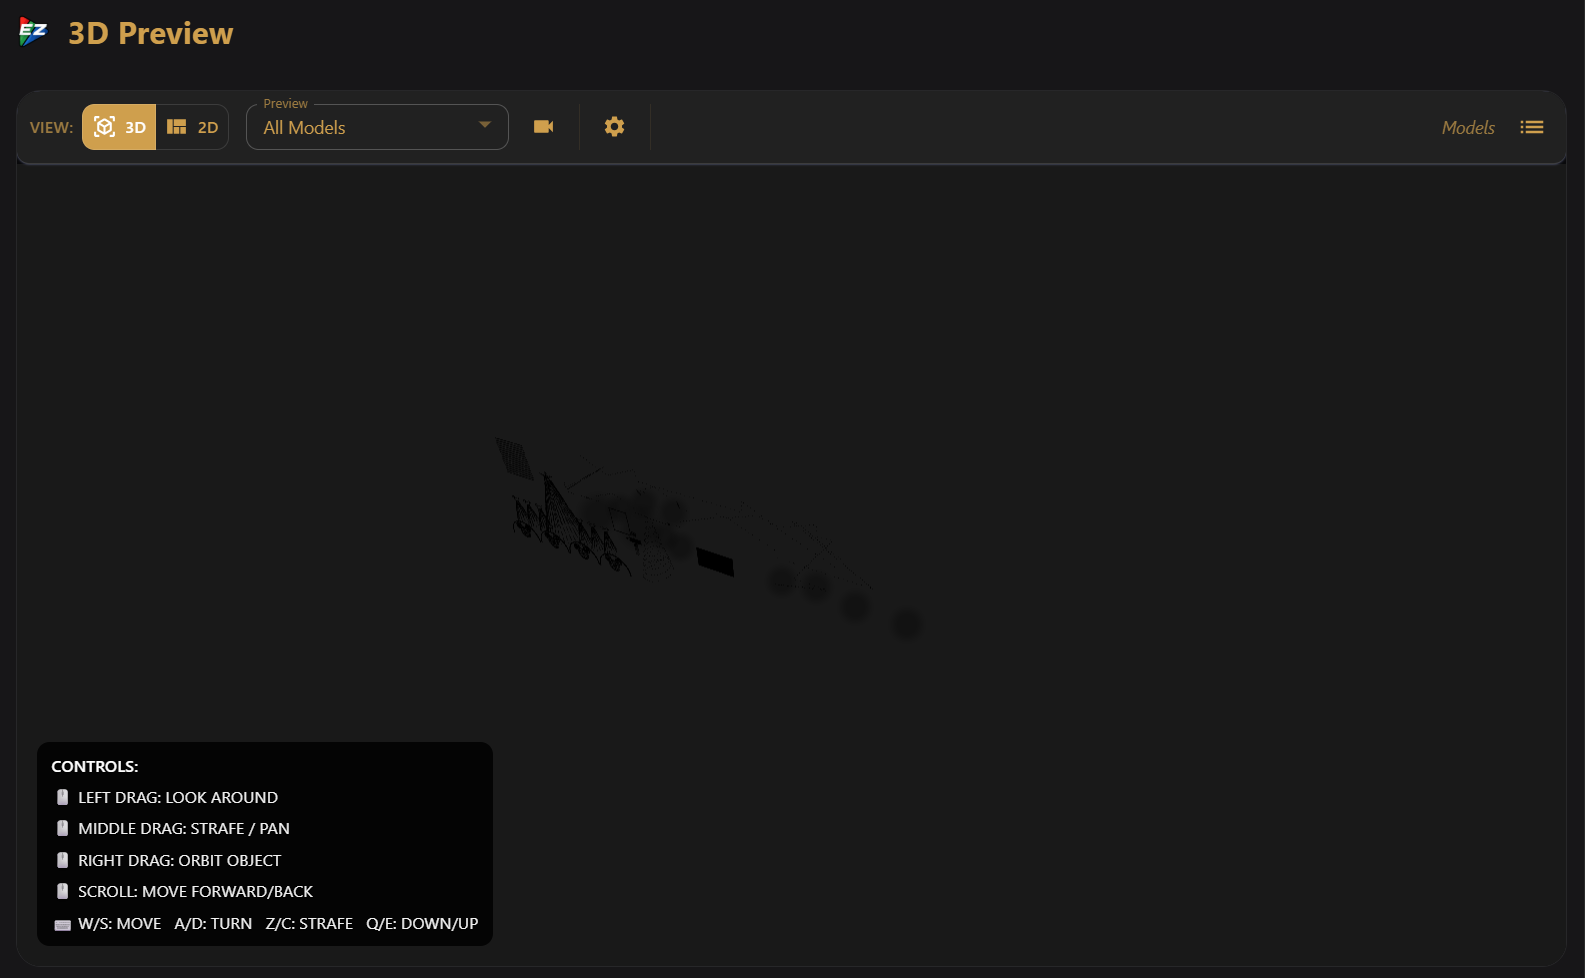
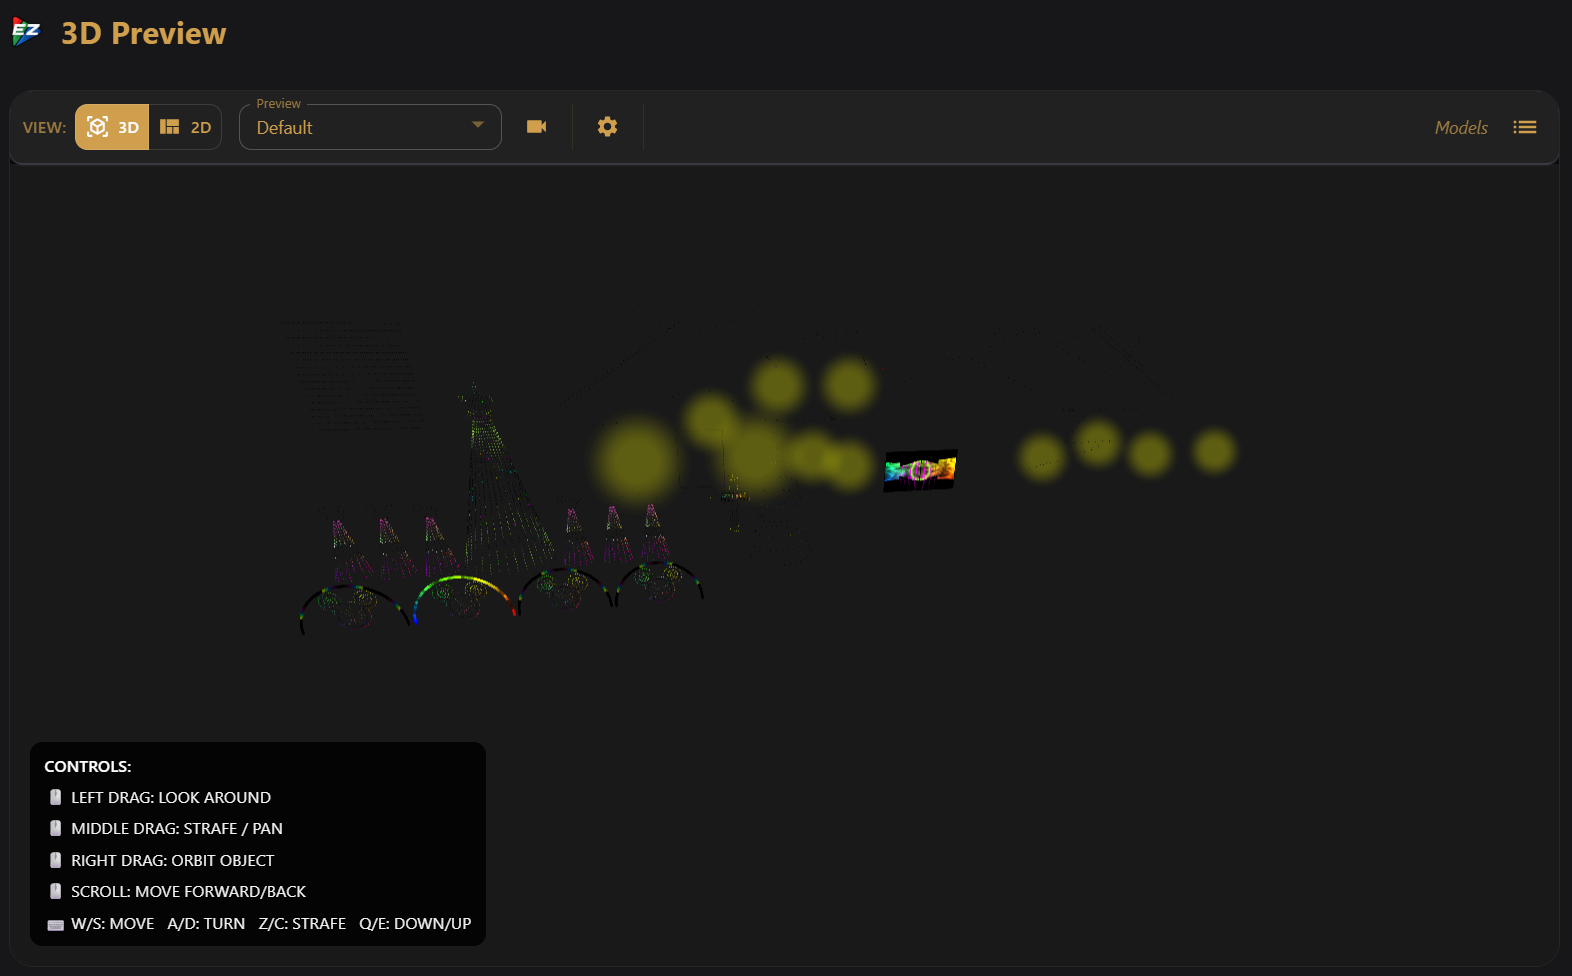
updated schedule related docs and added registering in the cloud

diff --git a/doc/manual/sidebars.js b/doc/manual/sidebars.js
@@ -49,7 +49,8 @@ const sidebars = {
           link: { type: 'doc', id: 'advanced/complex-schedules/overview' },
           items: [
             'advanced/complex-schedules/background-schedule',
-            'advanced/complex-schedules/simulating-your-schedule',
+            'advanced/complex-schedules/schedule-options',
+            'advanced/complex-schedules/schedule-preview',
           ],
         },
         'advanced/volume',

diff --git a/doc/manual/docs/cloud/registering.md b/doc/manual/docs/cloud/registering.md
@@ -5,6 +5,102 @@ title: Registering
 
 # Registering
 
-:::note
-This page is a placeholder. Content coming soon.
-:::
+Registration links this EZPlayer install to your [EZRGB](https://ezrgb.com) account.
+Once connected, the player can download your layout and sequences from the cloud
+and show up in your EZRGB dashboard for remote status and control.
+
+You only need to register once per show folder. If you reopen a folder that is
+already registered, EZPlayer picks up where you left off.
+
+## First-time setup (cloud-managed show)
+
+If you are starting fresh with EZRGB Cloud:
+
+1. On the welcome screen, choose **Connect to EZRGB Cloud**.
+2. Pick a **show folder** — an empty folder works well for a new cloud-managed
+   show.
+3. The registration screen appears with a QR code and a link.
+
+![Cloud registration](/img/FirstRunCloudReg.png)
+
+Complete registration in your browser (see [Completing registration](#completing-registration)
+below). When EZRGB confirms the player, EZPlayer pulls your layout automatically
+and then opens the main app.
+
+For the full walkthrough from first launch through scheduling, see
+[Getting Started (Cloud)](../basics/getting-started-cloud.md).
+
+## Registering later
+
+You can register at any time if you skipped cloud on first launch — for example,
+if you started with an xLights show folder and want to sync sequences from
+EZRGB later.
+
+Open registration from either place:
+
+- The **Cloud** screen in the sidebar — click **Register Player** when the player
+  is not connected.
+- **Settings → Cloud** — opens the same registration dialog.
+
+![Cloud screen — not connected](/img/cloud-screen.png)
+
+The QR code and link work the same way as on first launch.
+
+## Completing registration
+
+While waiting, the screen shows **Waiting for Registration** with a spinner.
+Finish the claim on EZRGB using either option:
+
+1. **Scan the QR code** with a phone or tablet that can open a browser.
+2. **Open the registration link** — click it in EZPlayer (desktop app) or copy
+   it into a browser on another device.
+
+You must be **logged in to your EZRGB account** in that browser. Follow the
+prompts on the EZRGB site to claim this player.
+
+When registration succeeds, the status changes to **Player ID Registered** with
+a green checkmark. EZPlayer detects this automatically — you do not need to
+restart the app.
+
+## If cloud is paused
+
+If the screen shows **Cloud Paused**, registration cannot complete until cloud
+activity is running again. Click **Resume Cloud**, then use the QR code or link
+as usual. Your player ID and settings are kept while paused.
+
+## After registration
+
+What happens next depends on how your show folder is set up:
+
+- **Cloud-managed show** — EZPlayer downloads your layout from EZRGB, then keeps
+  sequences, playlists, and schedule in sync. Watch progress on the **Cloud**
+  screen in the sidebar.
+- **xLights show folder** — your local layout stays in charge; the cloud mainly
+  syncs sequences and other content. You can push or pull the layout from the
+  Cloud screen when you are ready.
+
+From here, build playlists and schedules in EZPlayer, or manage content on
+[EZRGB](https://ezrgb.com).
+
+## Troubleshooting
+
+**The status stays on "Waiting for Registration"**
+
+- Make sure you finished the claim flow on EZRGB while logged into the correct
+  account.
+- Confirm the player has internet access and cloud is not paused.
+- Try opening the registration link again in a fresh browser tab.
+
+**You need to connect a different EZRGB account or replace this player**
+
+- On the Cloud screen, use **Disconnect** to clear the current registration,
+  then register again with a new QR code.
+- To reuse a player that is already registered in the cloud, paste its Player ID
+  under **Advanced** in the registration dialog. See [Cloud settings](../settings/cloud.md)
+  for details.
+
+**You want to change how often content syncs, pause cloud, or point at a different
+cloud server**
+
+- See [Cloud settings](../settings/cloud.md) for polling schedule, pause/resume,
+  and other advanced options.

diff --git a/doc/manual/docs/advanced/complex-schedules/schedule-preview.md b/doc/manual/docs/advanced/complex-schedules/schedule-preview.md
@@ -1,0 +1,52 @@
+---
+sidebar_position: 4
+title: Schedule Preview
+---
+
+# Schedule Preview
+
+Use **Schedule Preview** to see what the player will actually do over a chosen
+time range before show night. It walks through your schedules using the same
+[options](./schedule-options.md) you set on each entry — loops, shuffles,
+priority, and end-time behavior.
+
+## Opening Schedule Preview
+
+On the **Schedule** screen, click the preview icon in the toolbar to open
+**Schedule Preview**.
+
+![Schedule Preview Button](/img/schedule-preview-button.png)
+
+## Preview settings
+
+![Schedule Preview](/img/schedule-preview.png)
+
+At the top of the preview, set the range you want to check:
+
+- **Start Date** and **Start Time** — when the preview should begin.
+- **End Date** and **End Time** — when it should stop.
+- **Schedule Type Filter** — show **All Schedules**, **Main Schedules Only**, or
+  **Background Schedules Only**.
+
+## Generating the preview
+
+![Generating Preview](/img/generating-preview.png)
+
+Click **Generate Preview**. EZPlayer builds a timeline of what would play during
+that window, including how priority conflicts, loops, shuffles, and intro/outro
+timing play out.
+
+If you have not set up any songs, playlists, or schedule entries yet, the preview
+cannot run — add those first on the Schedule screen.
+
+## Reading the results
+
+![Schedule Preview Details](/img/schedule-preview-details.png)
+
+The timeline shows each scheduled show in order. Click an item in the timeline to
+jump to its details below. This is the easiest way to catch surprises — such as
+an overlap you did not expect or a window ending mid-song — before the lights go
+on.
+
+For multi-day checks or testing across a custom date range, widen the start and
+end dates and generate again.

diff --git a/doc/manual/docs/advanced/complex-schedules/overview.md b/doc/manual/docs/advanced/complex-schedules/overview.md
@@ -13,11 +13,11 @@ also gives you:
   over or under it. See [Background Schedule](./background-schedule.md).
 - **Runtime behavior** — control how a window fills its time (loop or shuffle),
   what happens when the end time lands mid-song, and which schedule window wins when two
-  overlap. See [Simulating Your Schedule](./simulating-your-schedule.md).
+  overlap. See [Schedule Options](./schedule-options.md).
 - **Manual overrides** — step in while a show runs to play a song now, stop, or
   skip, from the [Jukebox](../../basics/jukebox.md) or
   [Player screen](../../basics/player-screen.md).
 
-Before going live, use [Schedule Preview](./simulating-your-schedule.md) to
-simulate what the player will do over the coming hours and catch surprises ahead
-of show night.
+Before going live, use [Schedule Preview](./schedule-preview.md) to simulate
+what the player will do over the coming hours and catch surprises ahead of show
+night.

diff --git a/doc/manual/docs/basics/player-screen.md b/doc/manual/docs/basics/player-screen.md
@@ -96,7 +96,7 @@ This is a **summary** view. For details, see the **Show Status** screen.
 
 The lower half of the Player screen is an interactive **timeline** of today's
 schedule. EZPlayer shows your high-level [schedule](./simple-schedules.md) through the day
-here.  For exact details, you can [simulate] your show and get exact timings from the [Schedules](../advanced/complex-schedules/simulating-your-schedule.md) screen.
+here.  For exact details, you can [simulate] your show and get exact timings from the [Schedule Preview](../advanced/complex-schedules/schedule-preview.md) screen.
 
 ### What you see
 
@@ -117,7 +117,7 @@ Hover or click timeline items for detail. Use the toolbar to:
   shows _No schedule data available for today._
 - For multi-day preview, priority conflicts, and loop/shuffle testing across a
   custom date range, use **Schedule Preview** on the Schedule screen — see
-  [Simulating Your Schedule](../advanced/complex-schedules/simulating-your-schedule.md).
+  [Schedule Preview](../advanced/complex-schedules/schedule-preview.md).
 
 The timeline updates when your schedule, playlist, or song data changes.
 

diff --git a/doc/manual/docs/advanced/complex-schedules/background-schedule.md b/doc/manual/docs/advanced/complex-schedules/background-schedule.md
@@ -17,7 +17,7 @@ elements such as tune-to loops or ambient effects.
 In the [schedule editor](../../basics/simple-schedules.md), use the **Main /
 Background** toggle at the top to switch to a background entry. A background entry
 has the same options as a main one — time window, intro/outro, loop or shuffle,
-priority, and [end-time behavior](./simulating-your-schedule.md).
+priority, and [end-time behavior](./schedule-options.md).
 
 The key difference is that a background schedule never replaces the foreground
 show. It always plays *alongside* main, layered over or under it.

diff --git a/doc/manual/docs/basics/simple-schedules.md b/doc/manual/docs/basics/simple-schedules.md
@@ -30,6 +30,8 @@ Use the **Main** / **Background** toggle at the top to switch which kind of
 schedule you are editing (see
 [Background Schedule](../advanced/complex-schedules/background-schedule.md)).
 
+![FG-BG Toggle BUtton](/img/fg-bg-toggle.png)
+
 **Recurrence** lets one entry repeat:
 
 ![Recurring schedule](/img/schedule-recurring-1.png)